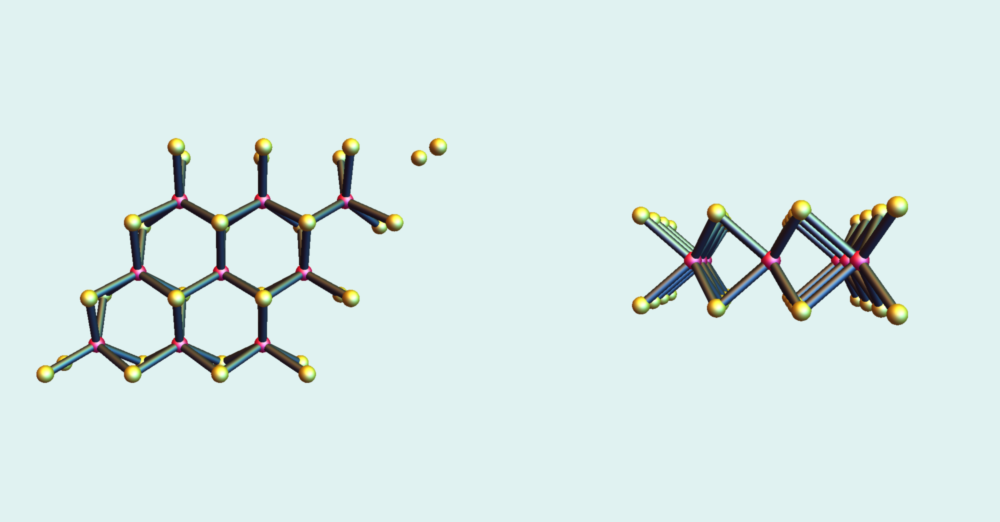
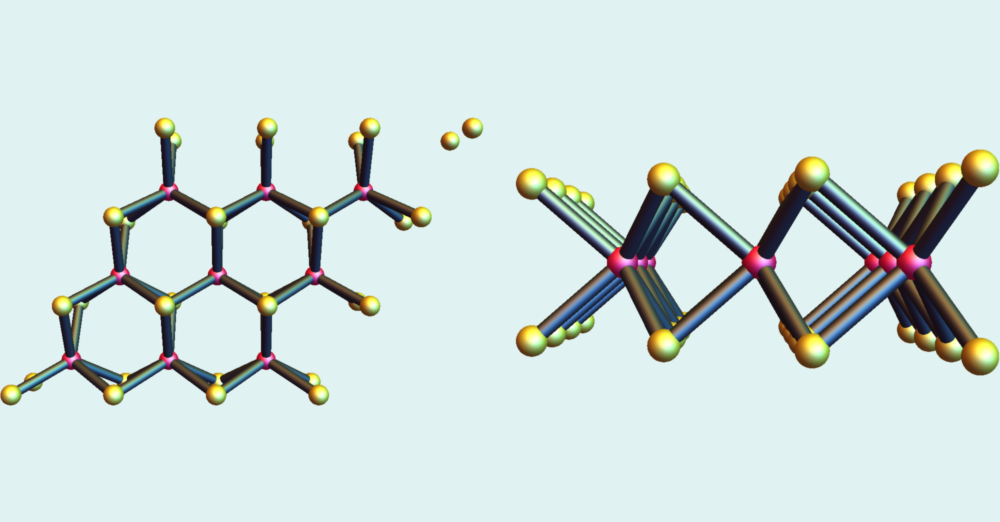
Adjust crystal image size.

Changed region(s): [[0.496, 0.2759, 1.0, 0.7356], [0.0, 0.2146, 0.434, 0.7969], [0.403, 0.2146, 0.496, 0.3372]]

diff --git a/_assets/stylesheets/_style.sass b/_assets/stylesheets/_style.sass
@@ -21,11 +21,13 @@ article.deck-container
   .crystal-image
     $width: 1000px
     $height: 522px
+    $v-width: 500px
+    $v-height: 954px
 
-    +background-image('dichalcogenides/crystal', (1 / 2) * $width, (1 / 2) * $height)
+    +background-image('dichalcogenides/crystal-vertical', (2 / 3) * $v-width, (2 / 3) * $v-height)
 
     @media #{$medium-up}
-      +background-image('dichalcogenides/crystal', $width, $height)
+      +background-image('dichalcogenides/crystal-vertical', $v-width, $v-height)
 
     @media #{$xga-up}
       +background-image('dichalcogenides/crystal', (4 / 5) * $width, (4 / 5) * $height)
